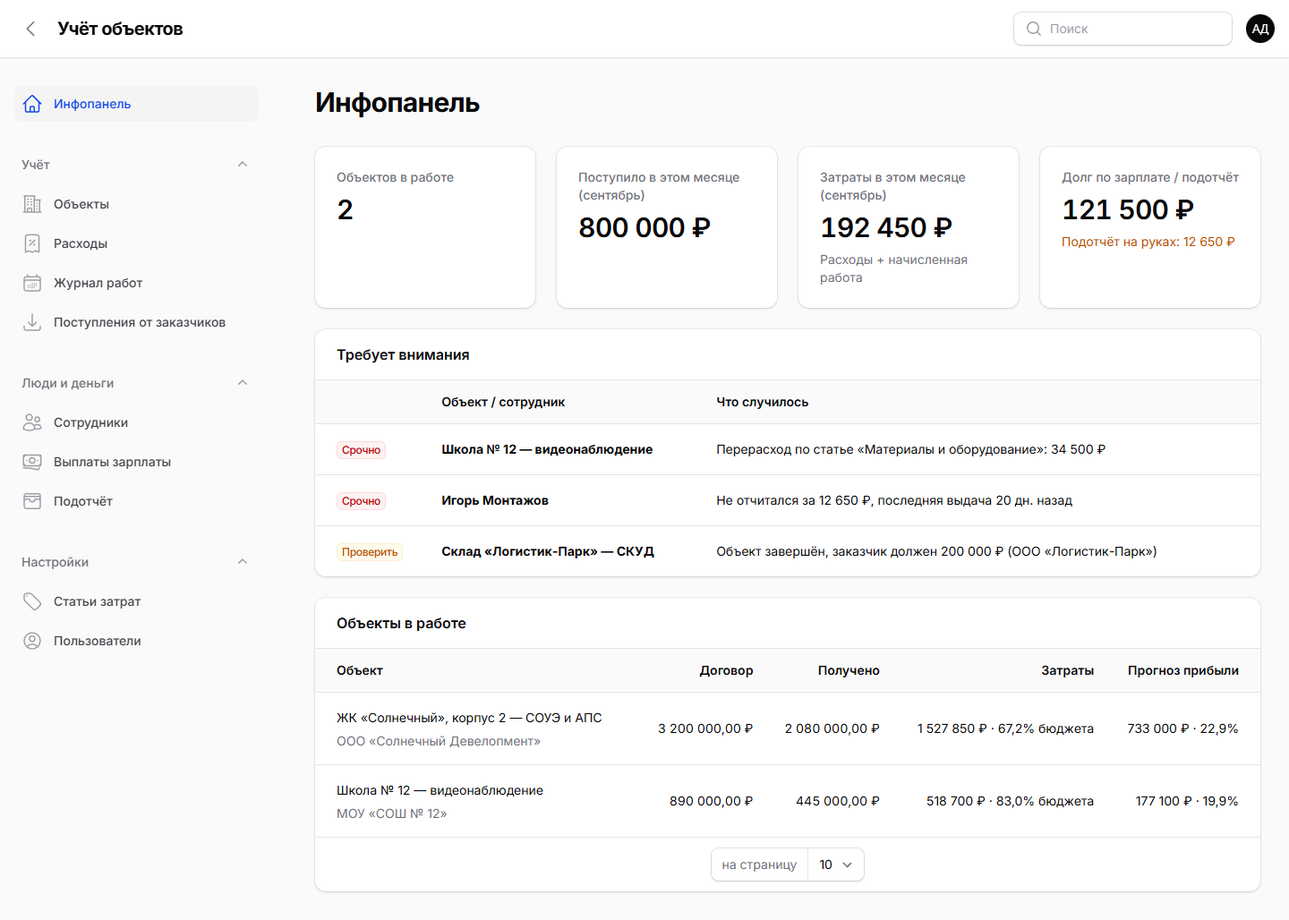
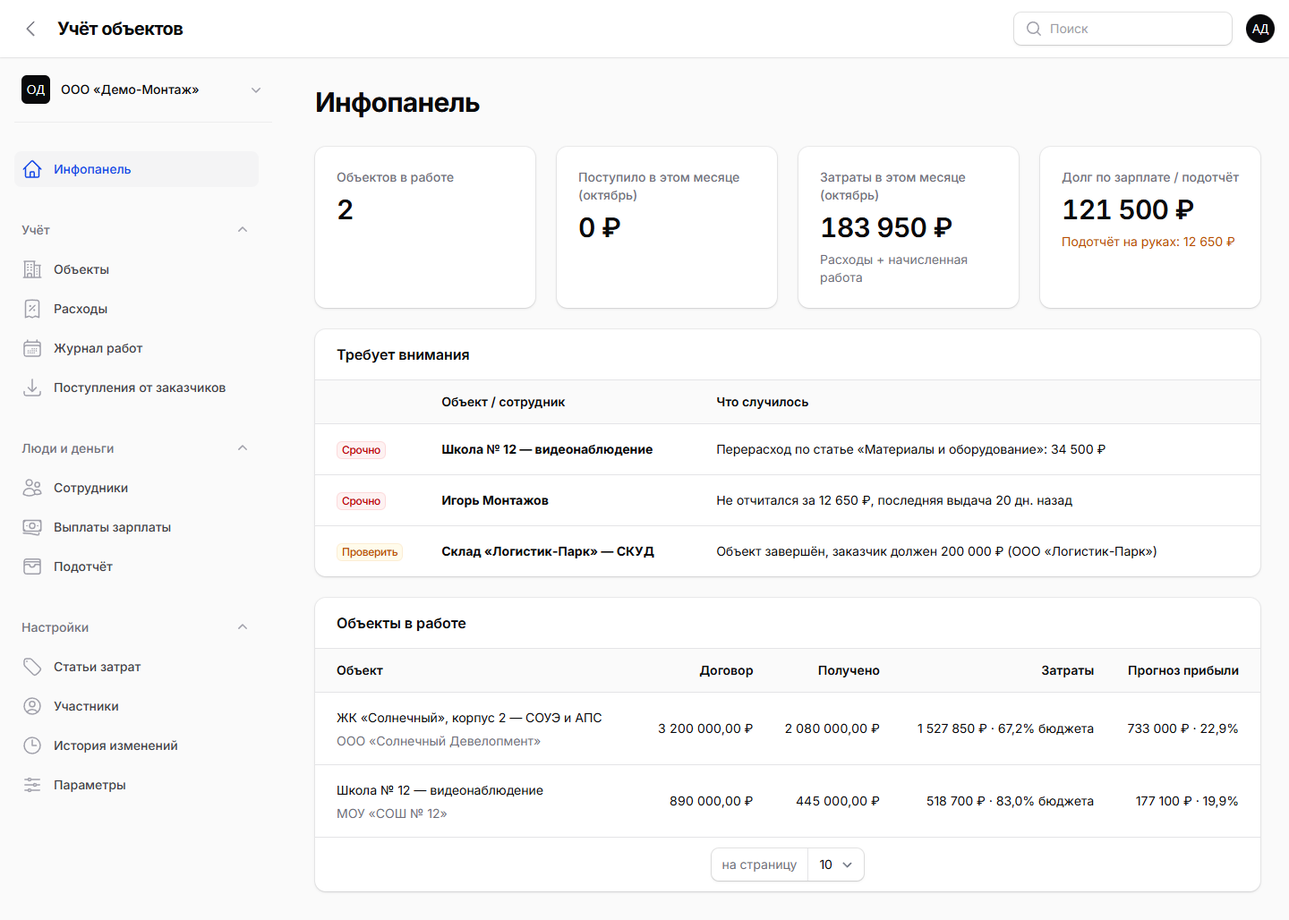
Витрина: README про организации, регистрацию и вход через Яндекс/VK; новые скриншоты; приглашение в демо-данных; ссылка на бота MAX — из MAX_BOT_URL

diff --git a/resources/views/filament/pages/about.blade.php b/resources/views/filament/pages/about.blade.php
@@ -54,7 +54,7 @@
             </details>
             <details>
                 <summary>Как отправлять чеки через MAX?</summary>
-                <p>Меню пользователя (кружок справа вверху) → «Подключить MAX» → отправьте код боту <a href="https://max.ru/id645317777929_bot" target="_blank">«БаZa»</a> в течение 10 минут. Дальше просто присылайте боту фото чека и отвечайте кнопками: объект, сумма, статья. Если вы в нескольких организациях, бот спросит, в какую.</p>
+                <p>Меню пользователя (кружок справа вверху) → «Подключить MAX» → отправьте код @if (config('services.max.bot_url'))<a href="{{ config('services.max.bot_url') }}" target="_blank">боту</a>@else боту @endif в течение 10 минут. Дальше просто присылайте боту фото чека и отвечайте кнопками: объект, сумма, статья. Если вы в нескольких организациях, бот спросит, в какую.</p>
             </details>
             <details>
                 <summary>Кто что видит?</summary>

diff --git a/database/seeders/DemoSeeder.php b/database/seeders/DemoSeeder.php
@@ -13,6 +13,7 @@ use App\Models\Employee;
 use App\Models\Expense;
 use App\Models\ExpenseCategory;
 use App\Models\Income;
+use App\Models\Invitation;
 use App\Models\Organization;
 use App\Models\Payout;
 use App\Models\Project;
@@ -67,6 +68,10 @@ class DemoSeeder extends Seeder
             $u[$role->value]->forceFill(['email_verified_at' => now(), 'current_organization_id' => $org->id])->save();
             $org->addMember($u[$role->value], $role);
         }
+
+        // Приглашение, которое ещё не приняли, — видно в «Участниках»
+        (new Invitation(['email' => 'novyi.prorab@demo.local', 'role' => UserRole::Foreman, 'expires_at' => now()->addDays(6)]))
+            ->forceFill(['created_by' => $u['admin']->id])->save();
 
         $foreman = Employee::create(['name' => 'Игорь Монтажов', 'position' => 'Прораб', 'day_rate' => 4500, 'user_id' => $u['foreman']->id, 'phone' => '+7 900 000-00-01']);
         $workers = [

diff --git a/config/services.php b/config/services.php
@@ -52,6 +52,8 @@ return [
     'max' => [
         'token' => env('MAX_BOT_TOKEN'),
         'webhook_secret' => env('MAX_WEBHOOK_SECRET'),
+        // ссылка на бота для «О программе и помощь» (https://max.ru/<имя_бота>), необязательно
+        'bot_url' => env('MAX_BOT_URL'),
         'url' => env('MAX_API_URL', 'https://platform-api2.max.ru'),
         // false — событие обрабатывается сразу после ответа MAX; true — через очередь (воркер раз в минуту)
         'queue' => (bool) env('MAX_QUEUE', false),

diff --git a/README.md b/README.md
@@ -1,7 +1,9 @@
-# Учёт объектов
+# Финпрораб — учёт объектов
 
-**Учёт затрат, зарплат и прибыли по объектам для монтажных организаций.**
+**Учёт затрат, зарплат и прибыли по объектам для монтажных и строительных компаний.**
 Сколько потрачено на каждый объект, сколько осталось по бюджету, кому и сколько должны, что заказчик уже заплатил и сколько останется в итоге.
+
+Работает как сервис на **[finprorab.ru](https://finprorab.ru)** — регистрация бесплатная, каждая компания видит только свои данные. Или поставьте у себя: код открыт (MIT).
 
 [![tests](https://github.com/johndoecesko/uchet-objektov/actions/workflows/tests.yml/badge.svg)](https://github.com/johndoecesko/uchet-objektov/actions/workflows/tests.yml)
 ![PHP 8.2+](https://img.shields.io/badge/PHP-8.2%2B-777bb4)
@@ -9,7 +11,7 @@
 ![Filament 4](https://img.shields.io/badge/Filament-4-f59e0b)
 ![License: MIT](https://img.shields.io/badge/license-MIT-green)
 
-> *English:* a self-hosted cost-per-project accounting tool for small installation / construction contractors (fire alarm, CCTV, access control, electrical). Budgets by expense category, expenses with receipt photos, crew work log and wages, cash advances, customer payments, tax as % of contract and forecast profit. Laravel 12 + Filament 4, installable as a PWA. Russian UI.
+> *English:* a multi-tenant cost-per-project accounting tool for small installation / construction contractors (fire alarm, CCTV, access control, electrical, HVAC, plumbing, finishing). Each company is an organization with its own data, members and roles; sign-up by email or Yandex ID / VK ID. Budgets by expense category, expenses with receipt photos, crew work log and wages, cash advances, customer payments, tax as % of contract and forecast profit. Laravel 12 + Filament 4, installable as a PWA. Russian UI.
 
 <!-- screenshots:start -->
 ![Главная: «Требует внимания», сводка за месяц и объекты в работе](docs/screenshots/01-dashboard.png)
@@ -17,6 +19,8 @@
 | Карточка объекта: план/факт и прогноз прибыли | Перерасход по статье сразу виден |
 |---|---|
 | ![Карточка объекта «ЖК «Солнечный»»](docs/screenshots/02-project-solnechny.png) | ![Объект «Школа № 12» с перерасходом по материалам](docs/screenshots/03-project-school-overrun.png) |
+| **Участники и приглашения** | **Страница сервиса** |
+| ![Участники организации и непринятые приглашения](docs/screenshots/05-members.png) | ![Публичная страница сервиса](docs/screenshots/06-landing.png) |
 
 <p align="center">
   <img src="docs/screenshots/04-mobile-new-expense.png" width="300" alt="Новый расход с телефона"><br>
@@ -30,6 +34,9 @@
 
 ## Что умеет
 
+- **Организации.** Каждая компания — отдельная организация со своими объектами, сотрудниками, деньгами и настройками; чужие данные не видны ни в списках, ни по прямой ссылке, ни в поиске, выгрузках и боте. Один человек может состоять в нескольких организациях с разными ролями и переключаться между ними.
+- **Участники и приглашения.** Администратор приглашает по почте или одноразовой ссылкой для мессенджера (7 дней), сразу с ролью; может отключить или убрать участника, не удаляя его аккаунт.
+- **Регистрация и вход.** По почте с подтверждением письмом, через Яндекс ID или VK ID; сброс пароля по почте; защита Яндекс SmartCaptcha и лимиты попыток. Согласие с документами сохраняется (когда, какая редакция, IP).
 - **Объекты и договоры.** Заказчик по ИНН подтягивается из DaData, адрес ищется с подсказками. Бюджет задаётся по статьям затрат.
 - **Расходы.** Материалы, субподряд, транспорт, аренда и прочее. К расходу прикладывается фото чека или УПД (фото с телефона сжимаются перед отправкой). Можно указать источник оплаты: счёт, карта, касса или подотчёт сотрудника.
 - **Чеки через бота в MAX.** Прораб отправляет фото чека боту, отвечает на три вопроса кнопками (объект, сумма, статья) — расход появляется в учёте с фото и пометкой «из MAX». Подробнее — ниже.
@@ -52,9 +59,13 @@
 - **История изменений.** Кто, когда и что поменял: «было → стало» по каждому полю. Отдельный раздел для администратора и блок на странице объекта и сотрудника.
 - **Роли.**
   - *Администратор* — всё.
-  - *Менеджер / бухгалтер* — вся финансовая часть, без настроек и пользователей.
+  - *Менеджер / бухгалтер* — вся финансовая часть, без настроек и участников.
   - *Прораб / инженер* видит объекты и вносит свои расходы и работы. Чужие записи и деньги компании ему не видны.
-- **Как приложение на телефоне (PWA).** Устанавливается на Android и iPhone с главного экрана. В меню ярлыка есть «Новый расход» и «Запись в журнал работ», так что чек можно внести прямо на объекте.
+
+  Роль задаётся в каждой организации отдельно.
+- **Как приложение на телефоне (PWA).** Устанавливается на Android и iPhone с главного экрана. В меню ярлыка есть «Новый расход» и «Запись в журнал работ», так что чек можно внести прямо на объекте. Инструкция с картинками — на `/install`.
+- **Страница сервиса и документы.** Публичная главная, Пользовательское соглашение, Политика обработки персональных данных и Согласие на обработку (реквизиты оператора — в `.env`). Внутри — «О программе и помощь»: версия, с чего начать, частые вопросы, что нового.
+- **Администратор платформы** (`/platform`): организации и учётки с числом объектов и последним входом, без денег; блокировка организации или учётки.
 
 ## Как считаются деньги по объекту
 
@@ -81,8 +92,8 @@ git clone https://github.com/johndoecesko/uchet-objektov.git uchet && cd uchet
 composer install
 cp .env.example .env
 php artisan key:generate
-php artisan migrate --seed                   # справочник статей затрат
-php artisan db:seed --class=DemoSeeder       # демо-данные (необязательно)
+php artisan migrate
+php artisan db:seed --class=DemoSeeder       # демо-организация «ООО «Демо-Монтаж»» (необязательно)
 php artisan serve
 ```
 
@@ -94,7 +105,7 @@ php artisan serve
 | manager@demo.local | Менеджер / бухгалтер |
 | foreman@demo.local | Прораб / инженер |
 
-Своего администратора можно создать командой `php artisan app:admin you@example.ru "Имя"`. Пароль вводится скрыто.
+Своего администратора платформы можно создать командой `php artisan app:admin you@example.ru "Имя"` (пароль вводится скрыто). После входа он создаст свою организацию; `--org=адрес` сразу делает его администратором существующей. Открытая регистрация по умолчанию выключена — включается `REGISTRATION_ENABLED=true` (см. ниже).
 
 ## Установка на сервер
 
@@ -108,7 +119,7 @@ php artisan serve
    PHP=/opt/php/8.3/bin/php bash deploy/setup.sh          # если PHP 8.3 лежит отдельно
    ```
    Скрипт установит зависимости и запишет настройки в `.env`. Пароль к базе при этом не попадает в историю команд. Потом скрипт создаст таблицы и справочник и попросит завести администратора.
-4. Необязательно: подключите подсказки DaData (см. ниже).
+4. Необязательно: почта, регистрация, вход через Яндекс/VK, подсказки DaData, бот MAX (см. ниже).
 
 5. Добавьте планировщик в crontab (`crontab -e`) — он разбирает очередь, делает ночной бэкап и чистит старую историю:
    ```
@@ -118,6 +129,23 @@ php artisan serve
 Как обновить сайт: сделайте `php artisan app:backup`, загрузите новые файлы, затем выполните `php artisan migrate --force && php artisan optimize`.
 
 > Не запускайте `php artisan test` в рабочей папке. Если конфиг закэширован под MySQL, тесты очистят боевую базу. Для тестов используйте отдельную копию или CI.
+
+## Почта, регистрация и вход
+
+Все ключи — в `.env` на сервере, после правки — `php artisan optimize`. Без ключей соответствующая функция просто выключена.
+
+| Что | Переменные | Без них |
+|---|---|---|
+| Письма (подтверждение почты, сброс пароля, приглашения) | `MAIL_MAILER=smtp`, `MAIL_SCHEME=smtps`, `MAIL_HOST`, `MAIL_PORT=465`, `MAIL_USERNAME`, `MAIL_PASSWORD`, `MAIL_FROM_ADDRESS` | письма пишутся в лог |
+| Открытая регистрация | `REGISTRATION_ENABLED=true` | только по приглашению в организацию |
+| Яндекс SmartCaptcha на регистрации и сбросе пароля | `SMARTCAPTCHA_CLIENT_KEY`, `SMARTCAPTCHA_SERVER_KEY` | без капчи (лимиты попыток работают всегда) |
+| Вход через Яндекс ID ([oauth.yandex.ru](https://oauth.yandex.ru), Redirect URI `https://ваш-сайт/auth/yandex/callback`) | `YANDEX_CLIENT_ID`, `YANDEX_CLIENT_SECRET` | кнопки нет |
+| Вход через VK ID ([id.vk.ru](https://id.vk.ru/about/business), Redirect URL `https://ваш-сайт/auth/vkid/callback`, доступ к почте) | `VKID_CLIENT_ID` (+ `VKID_SERVICE_TOKEN` для «конфиденциального» приложения) | кнопки нет |
+| Реквизиты оператора персональных данных в документах | `LEGAL_OPERATOR_NAME`, `_SHORT`, `_DATIVE`, `_INN`, `_OGRN`, `_ADDRESS`, `_EMAIL`; `LEGAL_DRAFT=false` | на страницах пометки «заполнить» и «черновик» |
+
+Вход через Яндекс и VK сделан без пакетов: OAuth 2.0 «код подтверждения» + PKCE, state в сессии (`app/Support/Social`). Новый человек проходит экран с согласием; если провайдер отдал почту, совпадающую с существующей учёткой, аккаунт привязывается к ней. В профиле — привязать/отвязать, последний способ входа отвязать нельзя. Письма — свои, на русском (`app/Notifications`).
+
+Тексты документов (`resources/views/legal`) — образец; проверьте их у юриста под себя. Если вы оператор персональных данных чужих сотрудников, нужно уведомление в Роскомнадзор.
 
 ## Подсказки DaData (необязательно)
 
@@ -158,6 +186,7 @@ php artisan serve
    MAX_BOT_TOKEN=токен_бота
    MAX_WEBHOOK_SECRET=длинная_случайная_строка
    ```
+   Необязательно: `MAX_BOT_URL=https://max.ru/<имя_бота>` — ссылка на бота в «О программе и помощь».
 3. Выполните `php artisan optimize && php artisan max:webhook-set` — MAX начнёт присылать события на `https://ваш-сайт/api/max/webhook`. Проверка: `php artisan max:webhook-info`.
 4. Каждый сотрудник один раз нажимает в меню пользователя «Подключить MAX» и отправляет боту показанный код (действует 10 минут).
 
@@ -188,7 +217,7 @@ BACKUP_WEBDAV_PASSWORD=пароль_ссылки
 php artisan test
 ```
 
-Тесты покрывают расчёты по объекту (план/факт, налог, прогноз), балансы сотрудников, права ролей, блок «Требует внимания» и его настройки, корзину, историю изменений, выгрузки в Excel (файл читается обратно и сверяется), бота MAX (весь диалог с подменой HTTP), бэкап и выгрузку в облако, подсказки DaData, демо-данные и PWA. На каждый push тесты запускаются в GitHub Actions.
+Тесты (больше 130) покрывают отдельным набором изоляцию организаций (списки, прямые адреса, формы, поиск, выгрузки, виджеты, вложения, бот), регистрацию и почту, вход через Яндекс/VK, приглашения, перенос данных со старой схемы, а также расчёты по объекту (план/факт, налог, прогноз), балансы сотрудников, права ролей, блок «Требует внимания» и его настройки, корзину, историю изменений, выгрузки в Excel (файл читается обратно и сверяется), бота MAX (весь диалог с подменой HTTP), бэкап и выгрузку в облако, подсказки DaData, демо-данные и PWA. На каждый push тесты запускаются в GitHub Actions.
 
 ## Разработка на заказ
 
